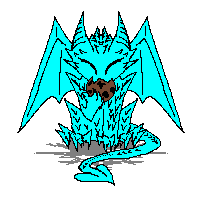
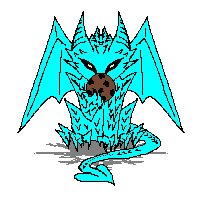
motorshop background, changed dragon nom numbers, and fixed cap bug in hat shop

diff --git a/Example.activity/game/TownMap.py b/Example.activity/game/TownMap.py
@@ -522,7 +522,7 @@ class HatShop(Shop):
         self.group.add(self.pet)
         self.pet.pos = [TM_WIDTH/2,TM_HEIGHT/2]
         self.oldHat = self.pet.hat
-        self.hats = [False,"cap","top","rice_white","rice_black"]
+        self.hats = [False,"cap_red","top","rice_white","rice_black"]
         self.cost = [random.randint(50,150) for x in self.hats]
         self.cost[0] = 0
         self.hat_index = 1
